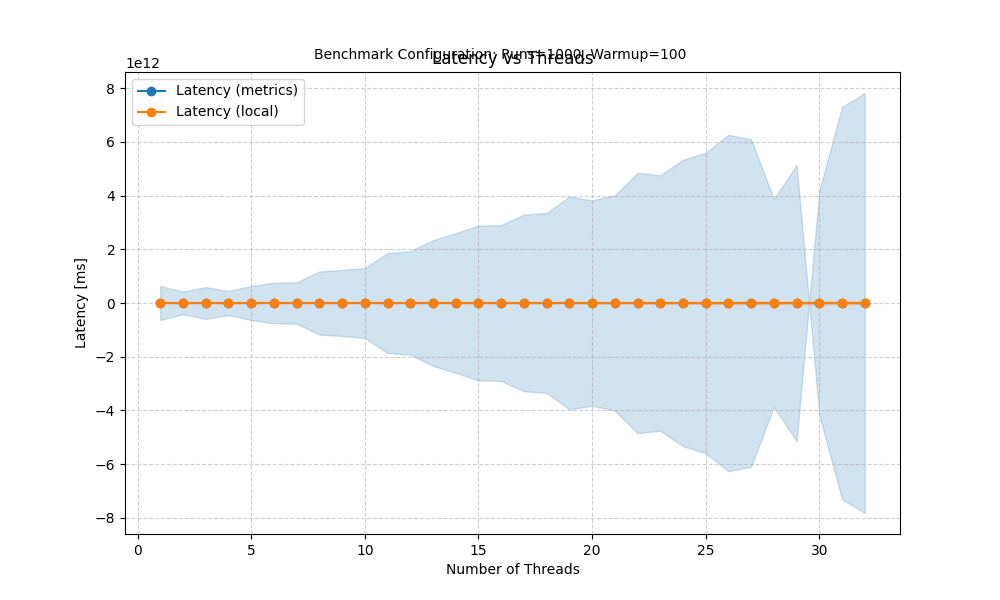
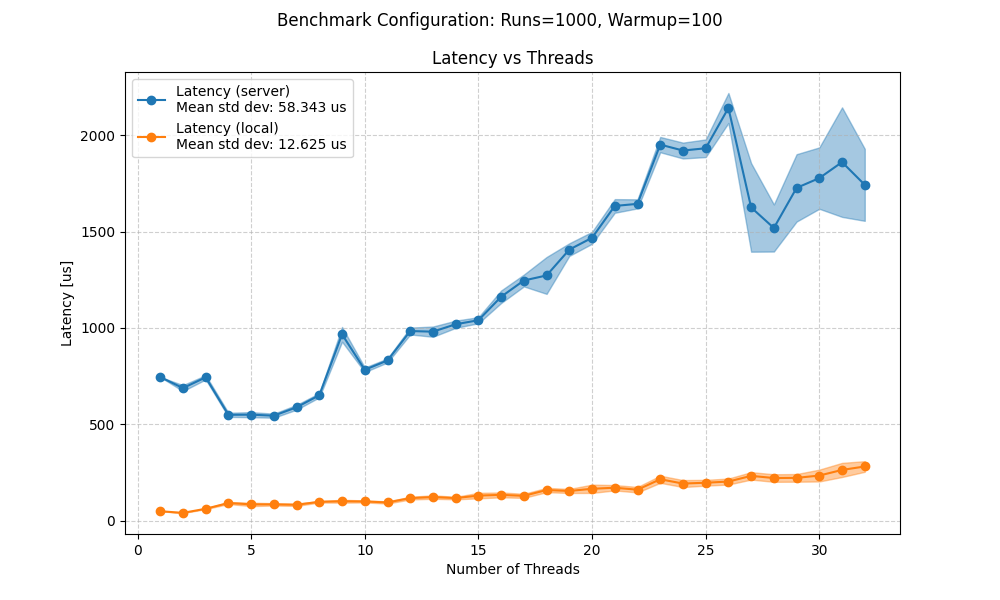
Better analysis

diff --git a/a3/src/com/acertainbookstore/client/workloads/CertainWorkload.java b/a3/src/com/acertainbookstore/client/workloads/CertainWorkload.java
@@ -31,7 +31,7 @@ public class CertainWorkload {
     public static final int maxThreads = 32;
     public static final int numWarmupRuns = 100;
     public static final int numRuns = 1000;
-    public static boolean localTest = true;
+    public static boolean localTest = false;
 
 	/**
 	 * @param args
@@ -47,7 +47,7 @@ public class CertainWorkload {
             csvPath = "workload_metrics_local.csv";
         }
         try (FileWriter csvWriter = new FileWriter(csvPath)) {
-            csvWriter.write("threads,runs,runs_warmup,latency[ms],latency_std,throughput[op/s],throughput_std\n"); // number of threads
+            csvWriter.write("threads,runs,runs_warmup,latency[us],latency_std,throughput[op/s],throughput_std\n"); // number of threads
         } catch (Exception e) {
             e.printStackTrace();
         }
@@ -108,20 +108,21 @@ public class CertainWorkload {
 	public static void reportMetric(List<WorkerRunResult> workerRunResults) {
         // First verify that the metrics follow the specified criteria
         // Just use asserts to crash if the criteria are not met since this is dev only
+        long count = workerRunResults.size();
         long totalInteractions = 0;
         long totalSuccessfulInteractions = 0;
         long totalCustomerInteractions = 0;
-        long totalLatencyInNanoSecs = 0L;
+        long totalElapsedTime = 0;
         double aggThroughput = 0.0;
         for (WorkerRunResult result: workerRunResults) {
             totalInteractions += result.getTotalRuns();
             totalSuccessfulInteractions += result.getSuccessfulInteractions();
-            totalLatencyInNanoSecs += result.getElapsedTimeInNanoSecs();
             totalCustomerInteractions += result.getTotalFrequentBookStoreInteractionRuns();
+            totalElapsedTime += result.getElapsedTimeInNanoSecs();
 
             aggThroughput += (double)result.getSuccessfulInteractions() / (double)result.getElapsedTimeInNanoSecs();
         }
-        long avgLatencyInNanoSecs = totalLatencyInNanoSecs / totalSuccessfulInteractions;
+        double avgLatency = (double)totalElapsedTime / (double)totalSuccessfulInteractions;
 
         double successRate = (totalSuccessfulInteractions * 100.0) / totalInteractions;
         assert successRate >= 99.0 : "Success rate is below 99%";
@@ -132,21 +133,28 @@ public class CertainWorkload {
         double totalThroughputSquaredError = 0.0;
         double totalLatencySquaredError = 0.0;
         for (WorkerRunResult result: workerRunResults) {
-            double threadThroughput = (double)result.getSuccessfulInteractions() / (double)result.getElapsedTimeInNanoSecs();
-            double throughputDiff = threadThroughput - (aggThroughput / workerRunResults.size());
-            totalThroughputSquaredError += throughputDiff * throughputDiff;
+            var dt = (double)result.getElapsedTimeInNanoSecs();
+            var si = (double)result.getSuccessfulInteractions();
 
-            long threadLatency = result.getElapsedTimeInNanoSecs();
-            long latencyDiff = threadLatency - avgLatencyInNanoSecs;
-            totalLatencySquaredError += latencyDiff * latencyDiff;
+            double threadThroughput = si / dt;
+            double throughputDiff = threadThroughput - (aggThroughput / count);
+            totalThroughputSquaredError += (throughputDiff * throughputDiff) / count;
+
+            double threadLatency = dt / si;
+            double latencyDiff = threadLatency - avgLatency;
+            totalLatencySquaredError += (latencyDiff * latencyDiff) / count;
         }
+        double latencyStdDev = Math.sqrt(totalLatencySquaredError);
+        double throughputStdDev = Math.sqrt(totalThroughputSquaredError);
 
         // Print the metrics as mentioned in the assigment text
         System.out.println("Number of threads: " + workerRunResults.size());
         System.out.println("Success Rate: " + successRate);
         System.out.println("Customer Rate: " + customerRate);
-        System.out.println("Average Latency (us): " + Math.round(avgLatencyInNanoSecs / 1_000.0));
+        System.out.println("Average Latency (us): " + Math.round(avgLatency / 1_000.0));
+        System.out.println("Average Latency std. dev.: " + Math.round(latencyStdDev / 1_000.0));
         System.out.println("Aggregate Throughput (ops/sec): " + Math.round(aggThroughput * 1_000_000_000.0));
+        System.out.println("Aggregate Throughput std. dev.: " + Math.round(throughputStdDev * 1_000_000_000.0));
 
         // Append to csv for plotting
         try (FileWriter csvWriter = new FileWriter(csvPath, true)) {
@@ -156,13 +164,13 @@ public class CertainWorkload {
             csvWriter.append(",");
             csvWriter.append(String.valueOf(numWarmupRuns));
             csvWriter.append(",");
-            csvWriter.append(String.valueOf(avgLatencyInNanoSecs / 1_000_000.0));
+            csvWriter.append(String.valueOf(avgLatency / 1_000.0));
             csvWriter.append(",");
-            csvWriter.append(String.valueOf(totalLatencySquaredError / workerRunResults.size() / 1_000_000.0));
+            csvWriter.append(String.valueOf(latencyStdDev / 1_000.0));
             csvWriter.append(",");
             csvWriter.append(String.valueOf(aggThroughput * 1_000_000_000.0));
             csvWriter.append(",");
-            csvWriter.append(String.valueOf(totalThroughputSquaredError / workerRunResults.size() * 1_000_000_000.0));
+            csvWriter.append(String.valueOf(throughputStdDev * 1_000_000_000.0));
             csvWriter.append("\n");
         } catch (Exception e) {
             e.printStackTrace();

diff --git a/a3/main.py b/a3/main.py
@@ -6,41 +6,52 @@ num_threads = 16
 
 df1 = pd.read_csv('workload_metrics.csv')
 df2 = pd.read_csv('workload_metrics_local.csv')
-datasets = {'metrics': df1, 'local': df2}
+datasets = {'server': df1, 'local': df2}
 
 runs = df1['runs'].iloc[0]
 warmup = df1['runs_warmup'].iloc[0]
 
+
 plt.figure(figsize=(10, 6))
 for label, df in datasets.items():
-    line, = plt.plot(df['threads'], df['latency[ms]'], marker='o', label=f'Latency ({label})')
+    line, = plt.plot(
+        df['threads'],
+        df['latency[us]'],
+        marker='o',
+        label=f'Latency ({label})\nMean std dev: {df["latency_std"].mean():.3f} us'
+    )
     plt.fill_between(
         df['threads'],
-        df['latency[ms]'] - df['latency_std'],
-        df['latency[ms]'] + df['latency_std'],
-        color=line.get_color(), alpha=0.2
+        (df['latency[us]'] - df['latency_std']).clip(lower=0),
+        df['latency[us]'] + df['latency_std'],
+        color=line.get_color(), alpha=0.4
     )
 
 plt.title(f'Latency vs Threads')
-plt.suptitle(f'Benchmark Configuration: Runs={runs}, Warmup={warmup}', fontsize=10, y=0.92)
+plt.suptitle(f'Benchmark Configuration: Runs={runs}, Warmup={warmup}', fontsize=12)
 plt.xlabel('Number of Threads')
-plt.ylabel('Latency [ms]')
+plt.ylabel('Latency [us]')
 plt.legend()
 plt.grid(True, linestyle='--', alpha=0.6)
 plt.savefig('latency_plot.png')
 
 plt.figure(figsize=(10, 6))
 for label, df in datasets.items():
-    line, = plt.plot(df['threads'], df['throughput[op/s]'], marker='s', label=f'Throughput ({label})')
+    line, = plt.plot(
+        df['threads'],
+        df['throughput[op/s]'],
+        marker='s',
+        label=f'Throughput ({label})\nMean std dev: {df["throughput_std"].mean():.3f} op/s'
+    )
     plt.fill_between(
         df['threads'],
-        df['throughput[op/s]'] - df['throughput_std'],
+        (df['throughput[op/s]'] - df['throughput_std']).clip(lower=0),
         df['throughput[op/s]'] + df['throughput_std'],
-        color=line.get_color(), alpha=0.2
+        color=line.get_color(), alpha=0.4
     )
 
 plt.title(f'Throughput vs Threads')
-plt.suptitle(f'Benchmark Configuration: Runs={runs}, Warmup={warmup}', fontsize=10, y=0.92)
+plt.suptitle(f'Benchmark Configuration: Runs={runs}, Warmup={warmup}', fontsize=12)
 plt.xlabel('Number of Threads')
 plt.ylabel('Throughput [op/s]')
 plt.legend()
